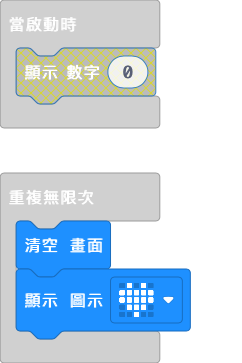
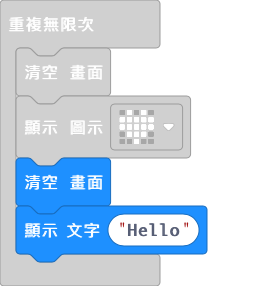
Update main.blocks, main.ts

diff --git a/main.ts b/main.ts
@@ -1,4 +1,6 @@
 basic.forever(function () {
     basic.clearScreen()
     basic.showIcon(IconNames.Heart)
+    basic.clearScreen()
+    basic.showString("Hello")
 })
